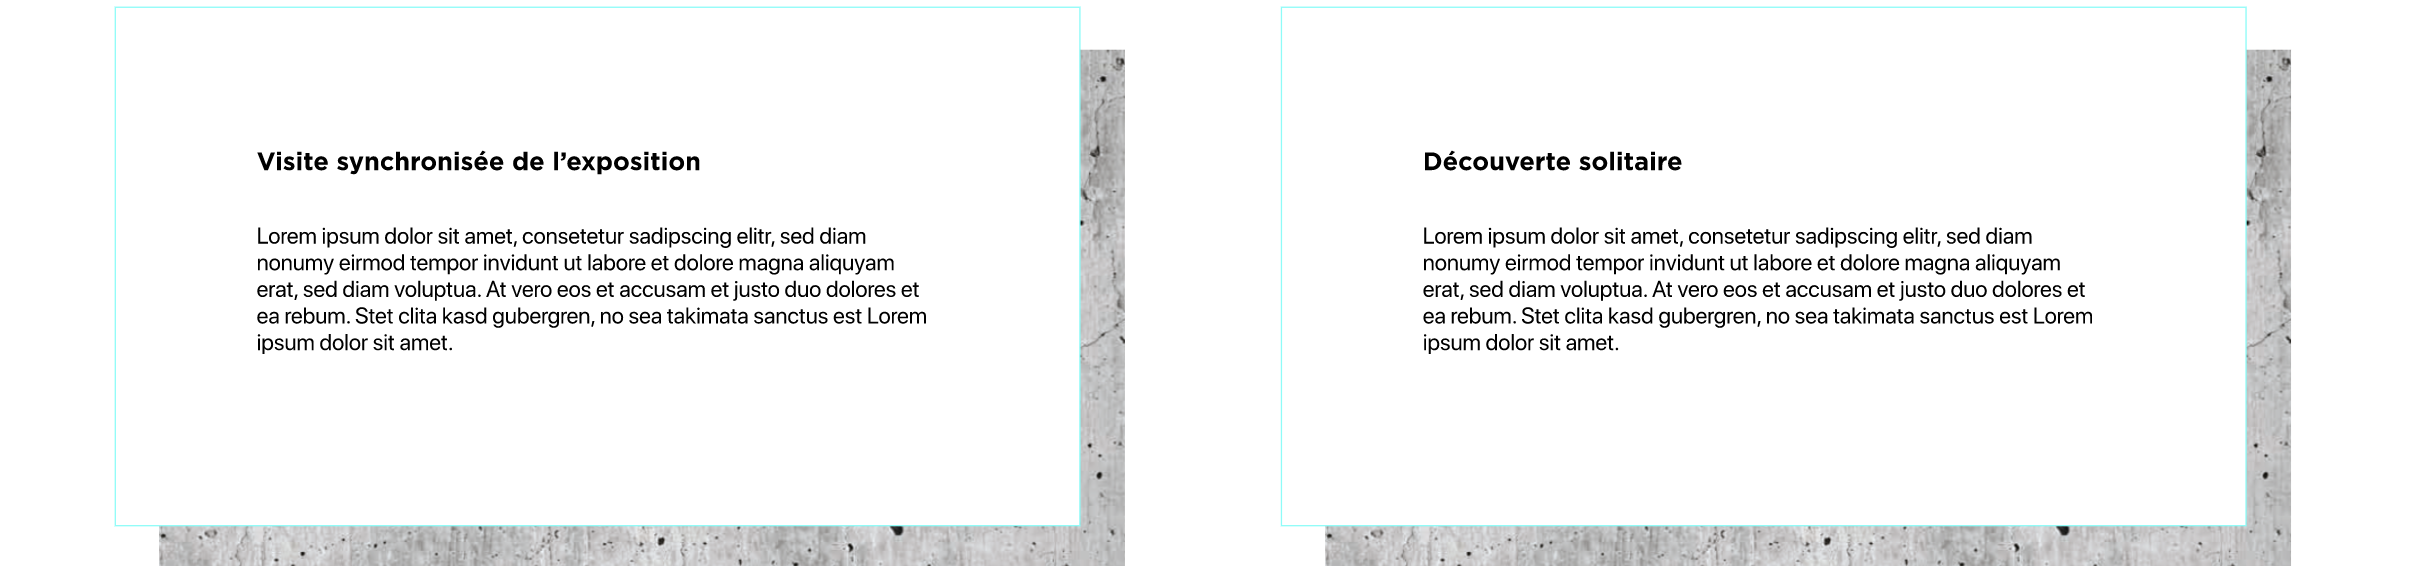
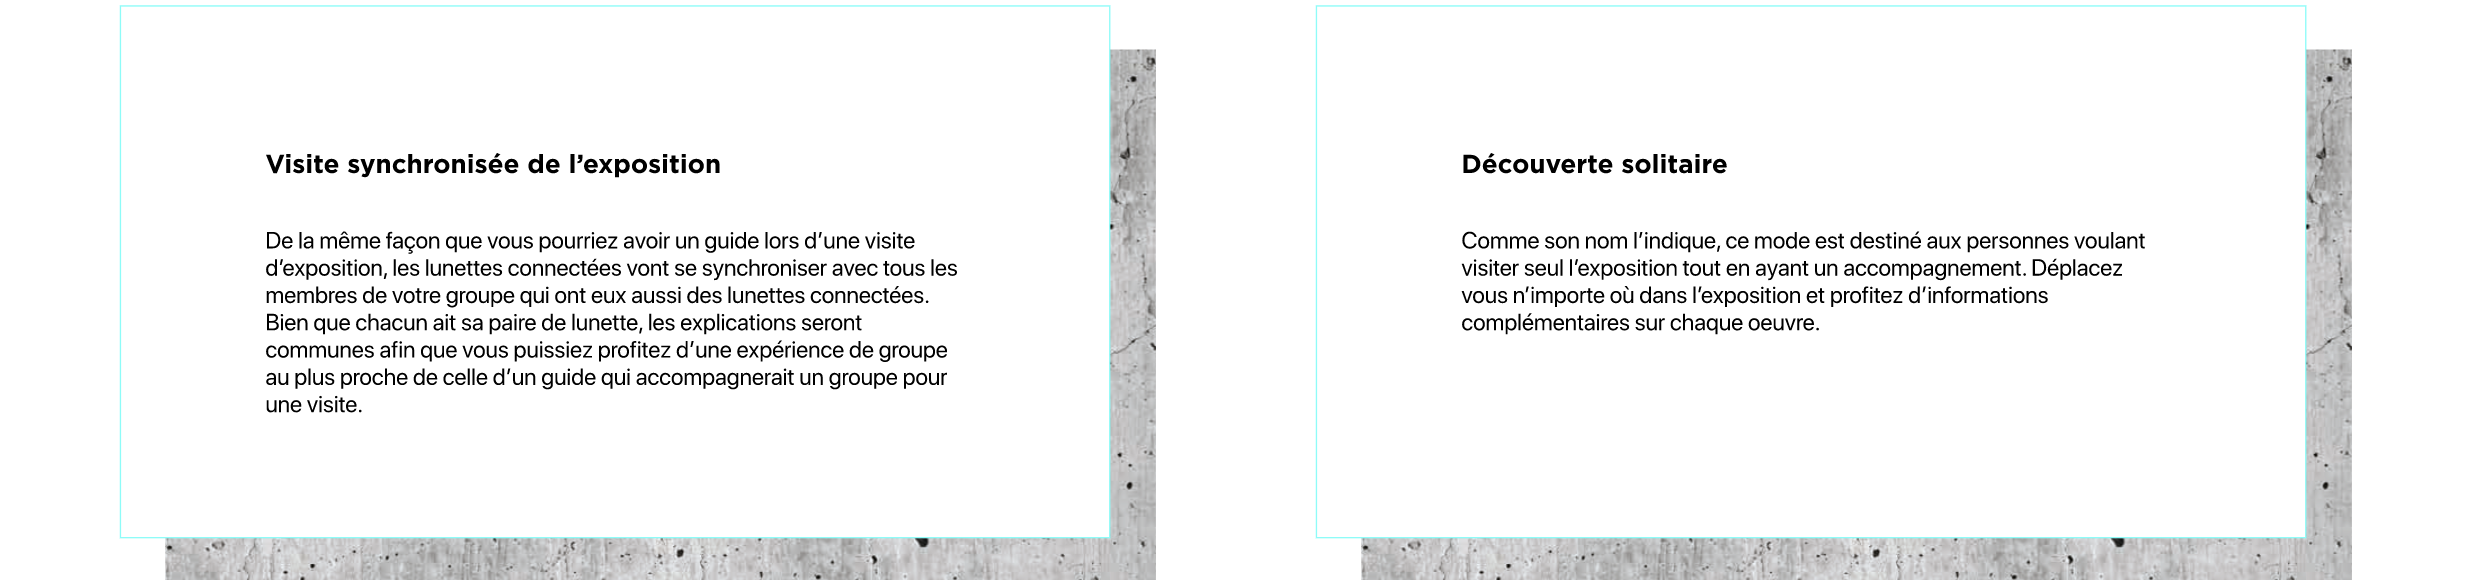
add text

diff --git a/src/components/Visite.vue b/src/components/Visite.vue
@@ -22,7 +22,9 @@
                     </div>
 
                     <div class="mt-4" style="font-size: 80%">
-                        Lorem ipsum dolor sit amet, consetetur sadipscing elitr, sed diam nonumy eirmod tempor invidunt ut labore et dolore magna aliquyam erat, sed diam voluptua. At vero eos et accusam et justo duo dolores et ea rebum. Stet clita kasd gubergren, no sea takimata sanctus est Lorem ipsum dolor sit amet. Lorem ipsum dolor sit amet, consetetur sadipscing elitr, sed diam nonumy eirmod tempor invidunt ut labore et dolore magna aliquyam erat, sed diam voluptua. At vero eos et accusam et justo duo dolores et ea rebum. Stet clita kasd gubergren, no sea takimata sanctus est Lorem ipsum dolor sit amet. Lorem ipsum dolor sit amet, consetetur sadipscing elitr, sed diam nonumy eirmod tempor invidunt ut labore et dolore magna aliquyam erat, sed diam voluptua. At vero eos et accusam et justo duo dolores et ea rebum. Stet clita kasd gubergren, no sea takimata sanctus est Lorem ipsum dolor sit amet.
+                        Disponible depuis peu, découvrez les lunettes connectées à travers une expérience immersive. Que vous soyez seul ou en groupe, les lunettes sont faites pour vous.
+                        Les lunettes connectées fonctionnent en réalité augmentée, c’est à dire que des éléments visuels viennent se superposer avec la réalité. Il est possible d’interagir avec les lunettes pour poser des questions sur les oeuvres présentes sur place ou sur un artiste en particulier. A la manière d’un guide lors d’une visite en musée, vous en apprendrez beaucoup sur les oeuvres de l’exposition et sur la démarche entreprise par les différents artistes.
+                        (a dupliquer pour combler l’espace)
                     </div>
 
                     <div class="mt-5 d-flex flex-column justify-content-between" style="width: 60%; height: 50%; border-left: 10px solid #65FFF9;">

diff --git a/src/components/InfosPratique.vue b/src/components/InfosPratique.vue
@@ -17,7 +17,7 @@
                     Pour bien visiter ensemble, en toute sécurité, il est interdit de consommer de la nourriture sur le site du Centre. En cette période de COVID-19, comme dans tout espace ouvert au public, les gestes barrières et la distance physique devront être respectés. Des masques sont en ventes à l’accueil.
                 </div>
 
-                <input type="button" style="background-color: #65FFF9; width: 30%; font: Bold 16px Gotham; border: 0; height: 40px; padding-top: 10px" value="Billeterie">
+                <input type="button" style="background-color: #65FFF9; width: 30%; font: Bold 16px Gotham; border: 0; height: 40px; padding-top: 10px" value="Billetterie">
             </b-col>
 
             <b-col cols="6">

diff --git a/src/components/Home.vue b/src/components/Home.vue
@@ -126,7 +126,7 @@
                         <span style="color: #65FFF9">04.</span> <b>Redécouvrir plus tard l’exposition virtuelle en ligne</b>
                     </div>
                     <div style="width: 20%; height: 100%; border-right: 10px solid #65FFF9;">
-                        <input type="button" style="background-color: #65FFF9; width: 100%; font: Bold 16px Gotham; border: 0; height: 40px; padding-top: 10px" value="Billeterie">
+                        <input type="button" style="background-color: #65FFF9; width: 100%; font: Bold 16px Gotham; border: 0; height: 40px; padding-top: 10px" value="Billetterie">
                     </div>
                 </div>
             </b-col>

diff --git a/src/components/Navbar.vue b/src/components/Navbar.vue
@@ -47,8 +47,8 @@
                         <div style="margin-left: 42px">
                             <b style="cursor: pointer" @click="$router.push('/centre')">Le Centre</b>
                         </div>
-                        <div style="margin-left: 42px">
-                            <b style="background-color: #65FFF9">Billeterie</b>
+                        <div style="margin-left: 42px;">
+                            <b style="background-color: #65FFF9; border-right: 4px solid #65FFF9; border-top: 4px solid #65FFF9;">Billetterie</b>
                         </div>
                     </div>
 

diff --git a/src/main.js b/src/main.js
@@ -37,7 +37,7 @@ const routes = [
   { path: '/visite', component: Visite },
   { path: '/centre', component: LeCentre },
   { path: '/infos', component: InfosPratique },
-  { path: '/billeterie', component: Billeterie },
+  { path: '/billetterie', component: Billeterie },
   { path: '/virtuelle', component: Virtuelle },
   { path: '/sonar', component: Sonar },
 ]
